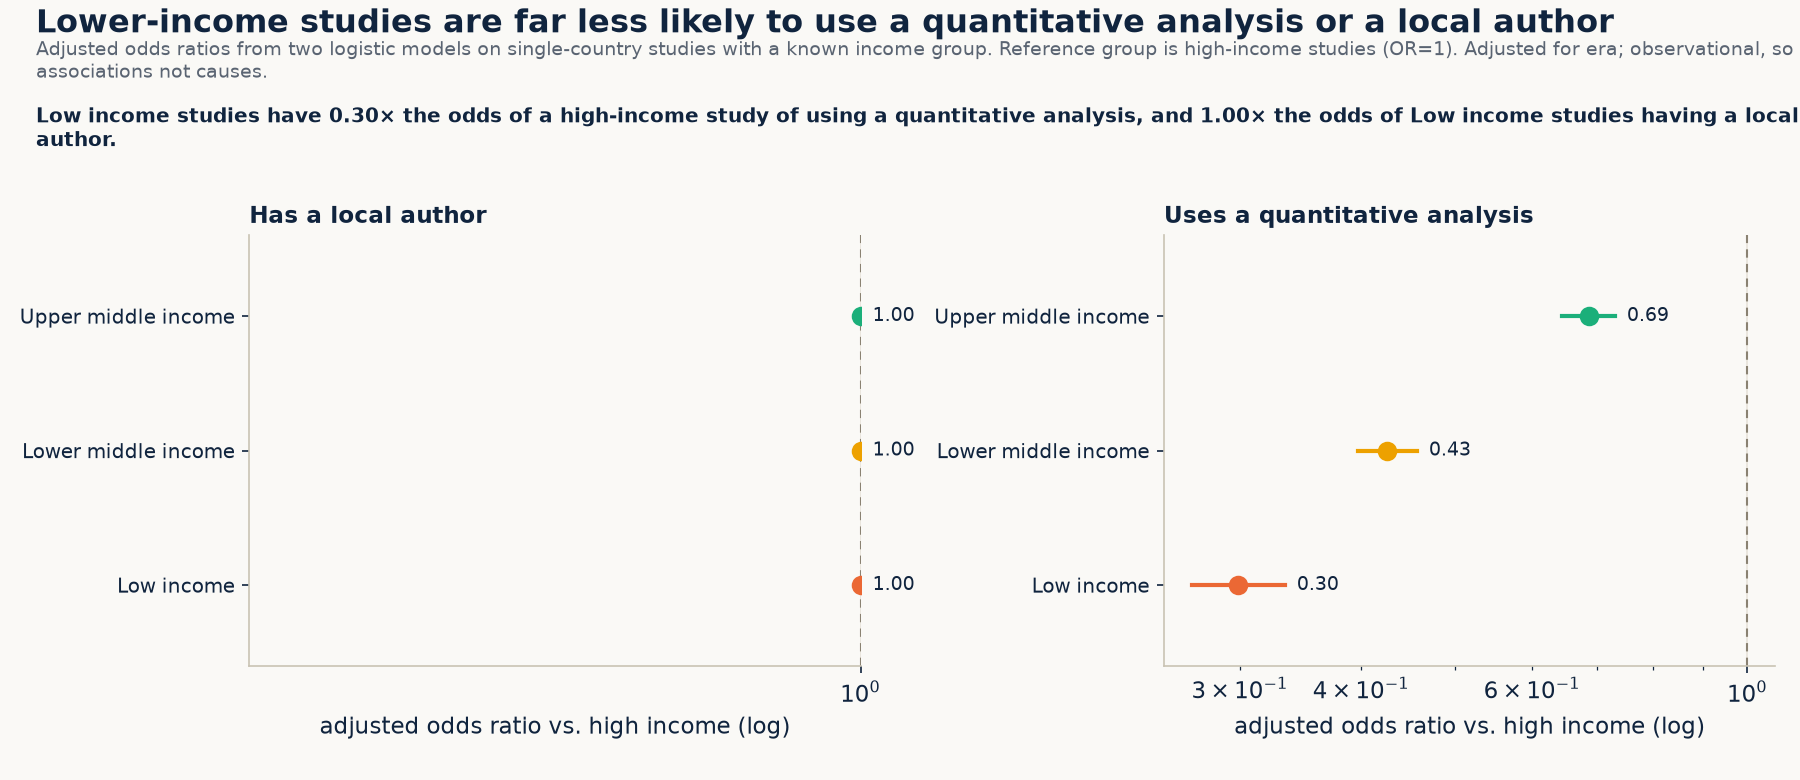
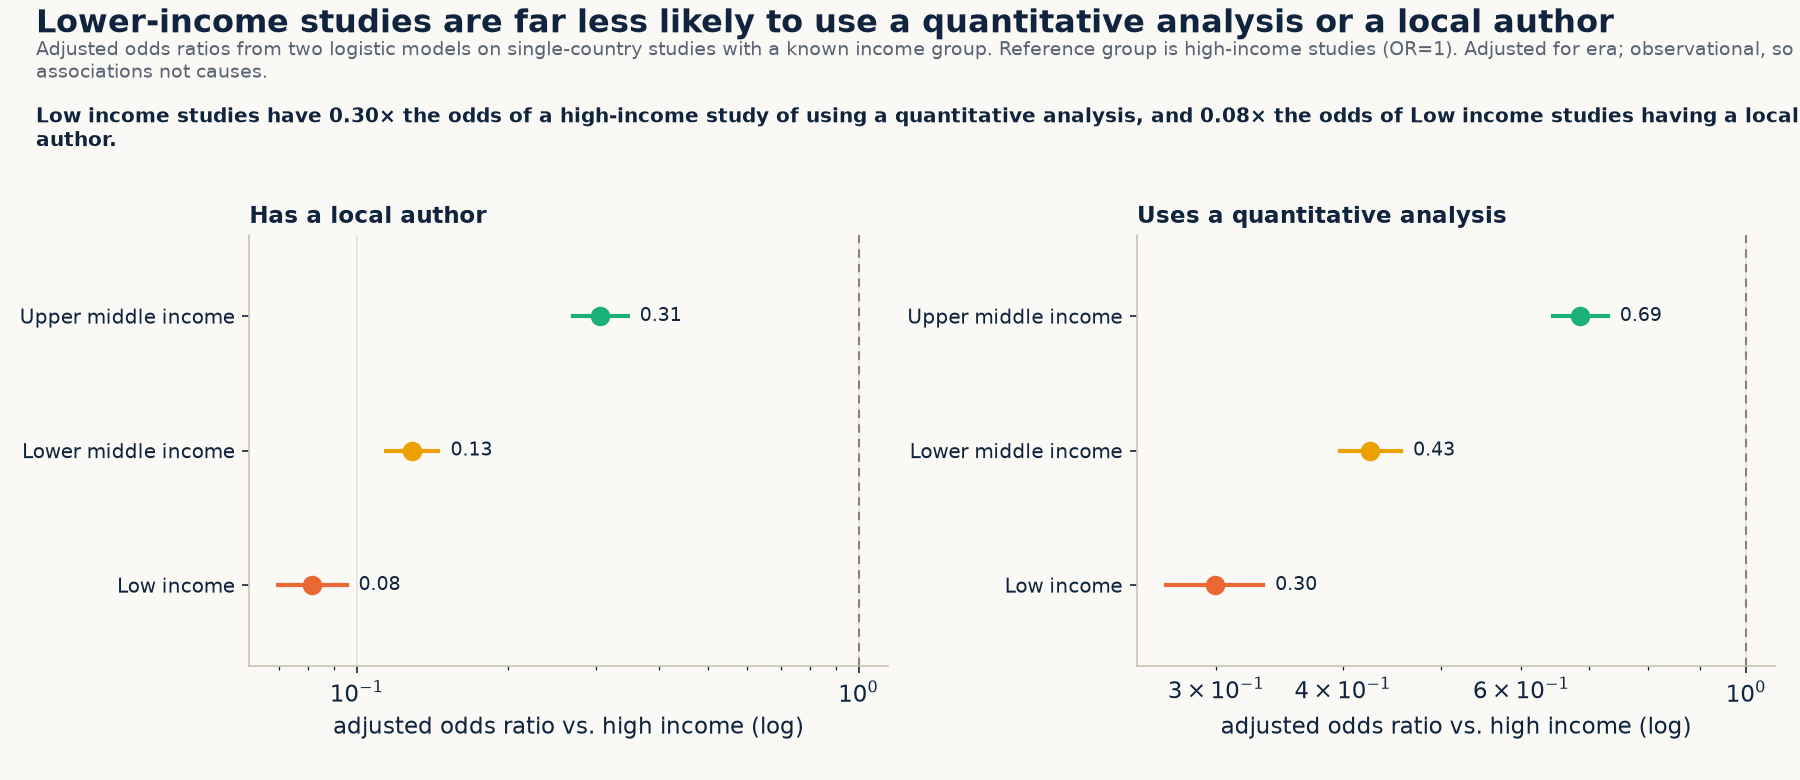
Restore gallery sections and forest plot dropped by 7cdf366
7cdf366 regenerated content.json and fig_forest.png on a machine without
the local-only raw inputs (pipeline CSV, F01-F12 xlsx), so build_figures.py
skipped 51 figures (Topics & themes and Global financing context sections
gone, Geography cut from 32 to 12) and fit the local-author model on no
data (every odds ratio 1.00). Gallery restored from b6dba50 plus the v4
section; fig_forest.png restored from b6dba50. The Unclear-footnote
change in app.js/index.html/styles.css is kept. Cache-buster -> 2026-09-30b.

diff --git a/docs/index.html b/docs/index.html
@@ -407,7 +407,7 @@
 <script src="https://cdn.jsdelivr.net/npm/plotly.js-dist-min@2.35.2/plotly.min.js" integrity="sha384-cCVCZkAjYNxaYKbM8lsArLznDF/SvMFr1jcZrvOpSTCa0W40ZAdLzHCEulnUa5i7" crossorigin="anonymous"></script>
 <script src="https://cdn.jsdelivr.net/npm/tom-select@2.3.1/dist/js/tom-select.complete.min.js" integrity="sha384-cnROoUgVILyibe3J0zhzWoJ9p2WmdnK7j/BOTSWqVDbC1pVw2d+i6Q/1ESKJKCYf" crossorigin="anonymous"></script>
 <script src="https://cdn.jsdelivr.net/npm/nouislider@15.8.1/dist/nouislider.min.js" integrity="sha384-EcVTHT5RdDTvzbTIbNOtaNxNALeJYDgmv5Crp3NBmcdrCPrDnqp6I1+ETJ/FCFHI" crossorigin="anonymous"></script>
-<script type="module" src="app.js?v=2026-09-30a"></script>
+<script type="module" src="app.js?v=2026-09-30b"></script>
 
 </body>
 </html>

diff --git a/docs/app.js b/docs/app.js
@@ -1,6 +1,6 @@
 // Cache-busting build token — bump alongside index.html's ?v= query string
 // whenever app.js or the data files change.
-const BUILD = "2026-09-30a";
+const BUILD = "2026-09-30b";
 
 const CODED_COLS = ["study_design", "type_of_analysis", "data_type", "data_source",
   "unit_of_observation", "geo_scope", "era"];
